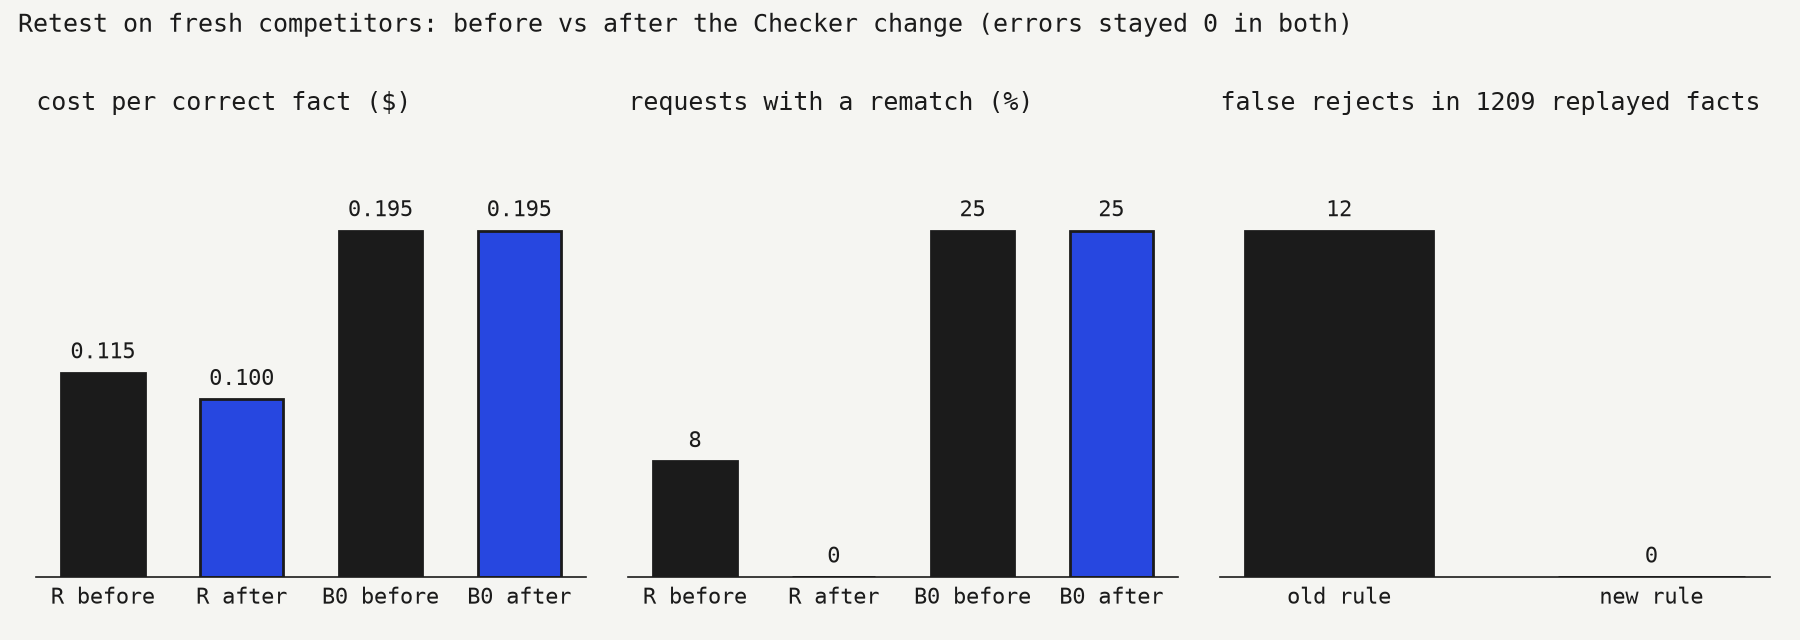
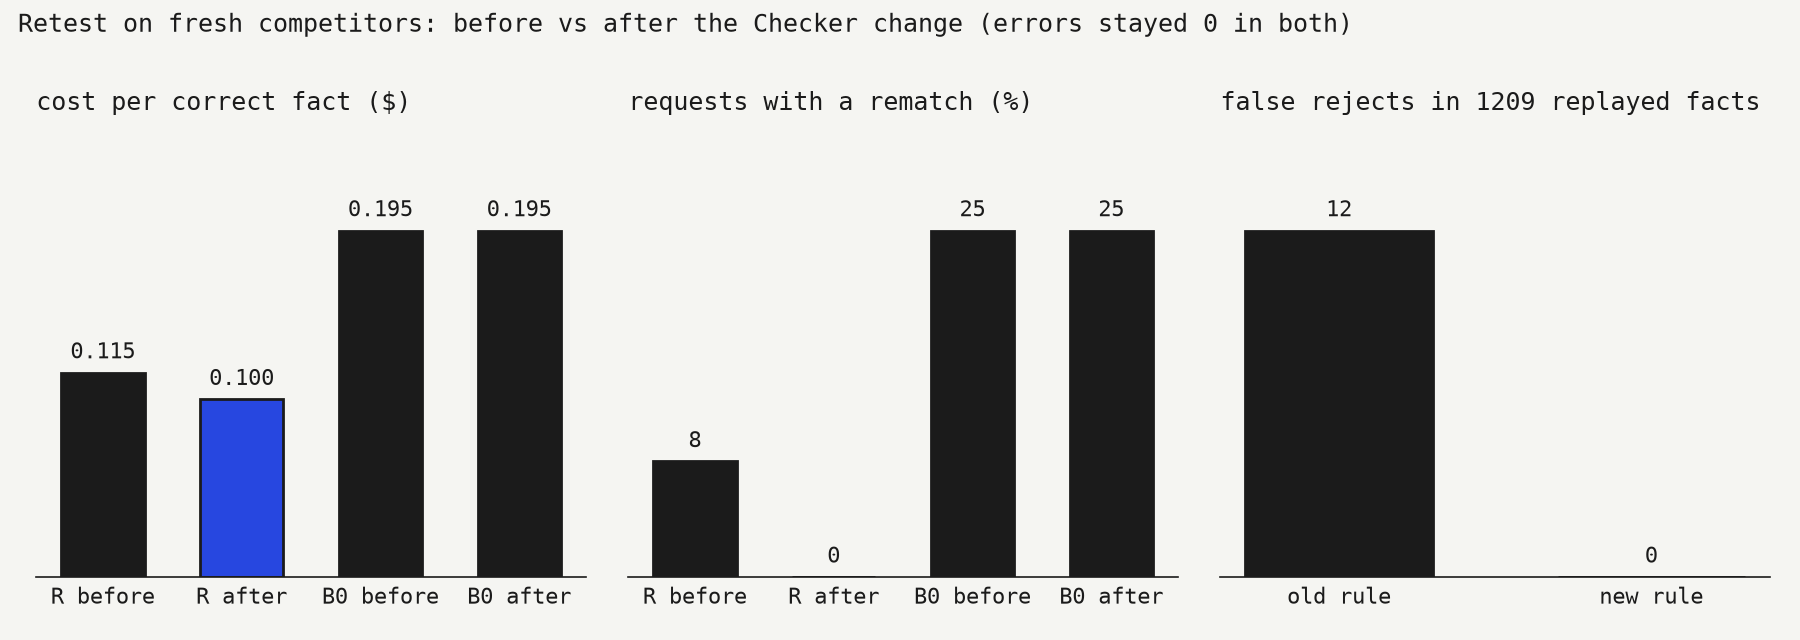
hw7: retest figure highlights only the changed condition

Changed region(s): [[0.5911, 0.3438, 0.6533, 0.9062], [0.2489, 0.3438, 0.3111, 0.9062]]

diff --git a/src/referral/hw7_analyze.py b/src/referral/hw7_analyze.py
@@ -213,7 +213,7 @@ def retest_figure(named, replay) -> None:
     for ax, (title, vals, fmt) in zip(axes, panels):
         ax.set_facecolor(PAPER)
         names = list(vals)
-        colors = [BLUE if "after" in n else INK for n in names]
+        colors = [BLUE if n in ("R after", "new rule") else INK for n in names]
         ax.bar(names, list(vals.values()), color=colors, edgecolor=INK, linewidth=1, width=0.6)
         top = max(list(vals.values()) + [1e-9]) * 1.3
         for x, v in enumerate(vals.values()):
